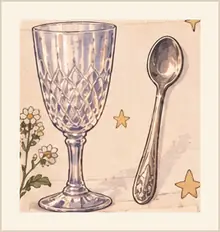
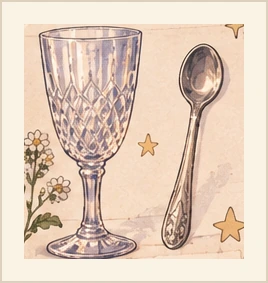
Restore approved full-resolution scene and clues, and fix asset paths

diff --git a/index.html b/index.html
@@ -91,7 +91,7 @@ h1{font-size:38px;letter-spacing:-1px;margin:6px 0 12px}.lead{font-size:17px;lin
   <div class="kicker">CASE 01</div><h1>사라진 별사탕</h1>
   <div class="lead">어젯밤 열린 작은 별빛 파티. 테이블 한가운데 있던 별사탕 병이 잠시 사라졌다가 창가에서 발견됐어. 그런데 당시 상황을 떠올려보니 사람들의 기억이 조금씩 달라.</div>
   <div class="status-strip"><span class="pill" id="introCount"></span><span class="pill" id="introCards"></span><span class="pill">오염된 기억의 주인 1명</span></div>
-  <div class="hero"><img src="assets/hero/star-candy-party.webp?v=4" alt="달빛 아래 별사탕 파티"></div>
+  <div class="hero"><img src="assets/hero/star-candy-party.webp?v=hd2" alt="달빛 아래 별사탕 파티"></div>
   <div class="note"><b>목표</b> · 네 기억도 정상인지 오염인지 알 수 없어. 사람들의 말을 비교해서 한 명을 찾아봐.</div>
   <div class="actions"><button class="btn" onclick="openMemory1()">첫 번째 기억 확인</button></div>
 </section>
@@ -112,7 +112,7 @@ h1{font-size:38px;letter-spacing:-1px;margin:6px 0 12px}.lead{font-size:17px;lin
 
 <section id="fact1" class="book hidden">
   <div class="kicker">FACT · 01</div><h1>남아 있던 파티 사진</h1>
-  <div class="fact"><div class="fact-photo-hint">사진 기록 · 별사탕 병의 파란 리본과 케이크 상자의 빨간 리본을 비교해봐.</div><div class="fact-media"><img src="assets/hero/star-candy-party.webp?v=4" alt="파란 리본 별사탕 병과 빨간 리본 케이크 상자가 있는 파티 장면"></div><p>사진 속 별사탕 병에는 <b>파란 리본</b>이, 바로 옆 케이크 상자에는 <b>빨간 리본</b>이 묶여 있어.</p></div>
+  <div class="fact"><div class="fact-photo-hint">파티에 남아 있던 사진 · 두 물건의 리본 색깔을 비교해봐.</div><div class="fact-media"><img src="assets/facts/fact-01-party-photo.webp?v=hd2" alt="파란 리본 별사탕 병과 빨간 리본 케이크 상자가 있는 파티 장면"></div><p>사진 속 별사탕 병에는 <b>파란 리본</b>이, 바로 옆 케이크 상자에는 <b>빨간 리본</b>이 묶여 있어.</p></div>
   <div class="actions"><button class="btn" onclick="openMemory2()">두 번째 기억 확인</button></div>
 </section>
 
@@ -131,7 +131,7 @@ h1{font-size:38px;letter-spacing:-1px;margin:6px 0 12px}.lead{font-size:17px;lin
 
 <section id="fact2" class="book hidden">
   <div class="kicker">FACT · 02</div><h1>파티 영상의 소리</h1>
-  <div class="fact"><div class="fact-media"><img src="assets/facts/fact-02-sound.webp?v=4" alt="손종과 유리잔" onerror="this.onerror=null;this.src='assets/hero/star-candy-party.webp?v=4'"></div><p>종은 한 번만 울렸고, 그 직후 숟가락이 유리잔에 부딪히는 <b>비슷한 금속음</b>이 한 번 더 났어.</p></div>
+  <div class="fact"><div class="fact-media"><img src="assets/facts/fact-02-sound.webp?v=hd2" alt="손종과 유리잔" onerror="this.onerror=null;this.src='assets/hero/star-candy-party.webp?v=4'"></div><p>종은 한 번만 울렸고, 그 직후 숟가락이 유리잔에 부딪히는 <b>비슷한 금속음</b>이 한 번 더 났어.</p></div>
   <div class="actions"><button class="btn lav" onclick="showFinalTalk()">최종 추리 시작</button></div>
 </section>
 
@@ -151,8 +151,8 @@ h1{font-size:38px;letter-spacing:-1px;margin:6px 0 12px}.lead{font-size:17px;lin
 <section id="result" class="book hidden">
   <div class="kicker">RESULT</div><h1>기억이 뒤섞인 사람은</h1><div class="result-name" id="resultName"></div><div id="myResult"></div>
   <div class="memory-grid">
-    <div class="memory"><div class="memory-art"><img src="assets/memory/red-ribbon-cake-box.webp?v=3" alt=""></div><small>MIXED MEMORY · 01</small><p>“별사탕 병에는 빨간 리본이 묶여 있었다.”</p><div class="note">실제로 빨간 리본은 <b>케이크 상자</b>에 묶여 있었어.</div></div>
-    <div class="memory"><div class="memory-art"><img src="assets/memory/glass-and-spoon.webp?v=3" alt=""></div><small>MIXED MEMORY · 02</small><p>“종이 두 번 울렸다.”</p><div class="note">실제로는 <b>손종 1회 + 유리잔과 숟가락 소리 1회</b>였어.</div></div>
+    <div class="memory"><div class="memory-art"><img src="assets/memory/red-ribbon-cake-box.webp?v=hd2" alt=""></div><small>MIXED MEMORY · 01</small><p>“별사탕 병에는 빨간 리본이 묶여 있었다.”</p><div class="note">실제로 빨간 리본은 <b>케이크 상자</b>에 묶여 있었어.</div></div>
+    <div class="memory"><div class="memory-art"><img src="assets/memory/glass-and-spoon.webp?v=hd2" alt=""></div><small>MIXED MEMORY · 02</small><p>“종이 두 번 울렸다.”</p><div class="note">실제로는 <b>손종 1회 + 유리잔과 숟가락 소리 1회</b>였어.</div></div>
   </div>
   <div class="note"><b>사건의 진실</b> · 별사탕은 도난당하지 않았어. 케이크 자리를 만들려고 은색 쟁반을 창가로 옮기는 과정에서 병도 함께 이동했을 뿐이야.</div>
   <div class="reveal"><h3>이번 판 카드 배분 확인</h3><div class="assignments" id="assignments"></div></div>
@@ -166,11 +166,11 @@ const screens=['guide','intro','mem1','talk1','fact1','mem2','talk2','fact2','fi
 const meta={guide:['GAME GUIDE','시작 전'],intro:['CASE INTRO','사건 소개'],mem1:['MEMORY 01','기억 1'],talk1:['ROUND 1','대화'],fact1:['FACT 01','사실 공개'],mem2:['MEMORY 02','기억 2'],talk2:['ROUND 2','대화'],fact2:['FACT 02','사실 공개'],finalTalk:['FINAL TALK','최종 대화'],vote:['FINAL VOTE','최종 지목'],result:['RESULT','결과']};
 
 const IMG={
-  jar:'assets/memory/star-candy-jar.webp?v=3',
-  cake:'assets/memory/red-ribbon-cake-box.webp?v=3',
-  bell:'assets/memory/handbell.webp?v=3',
-  glass:'assets/memory/glass-and-spoon.webp?v=3',
-  party:'assets/hero/star-candy-party.webp'
+  jar:'assets/memory/star-candy-jar.webp?v=hd2',
+  cake:'assets/memory/red-ribbon-cake-box.webp?v=hd2',
+  bell:'assets/memory/handbell.webp?v=hd2',
+  glass:'assets/memory/glass-and-spoon.webp?v=hd2',
+  party:'assets/hero/star-candy-party.webp?v=hd2'
 };
 const corruptedCards=[
   {id:'C1',text:'별사탕 병에는 빨간 리본이 묶여 있었다.',img:IMG.jar},
